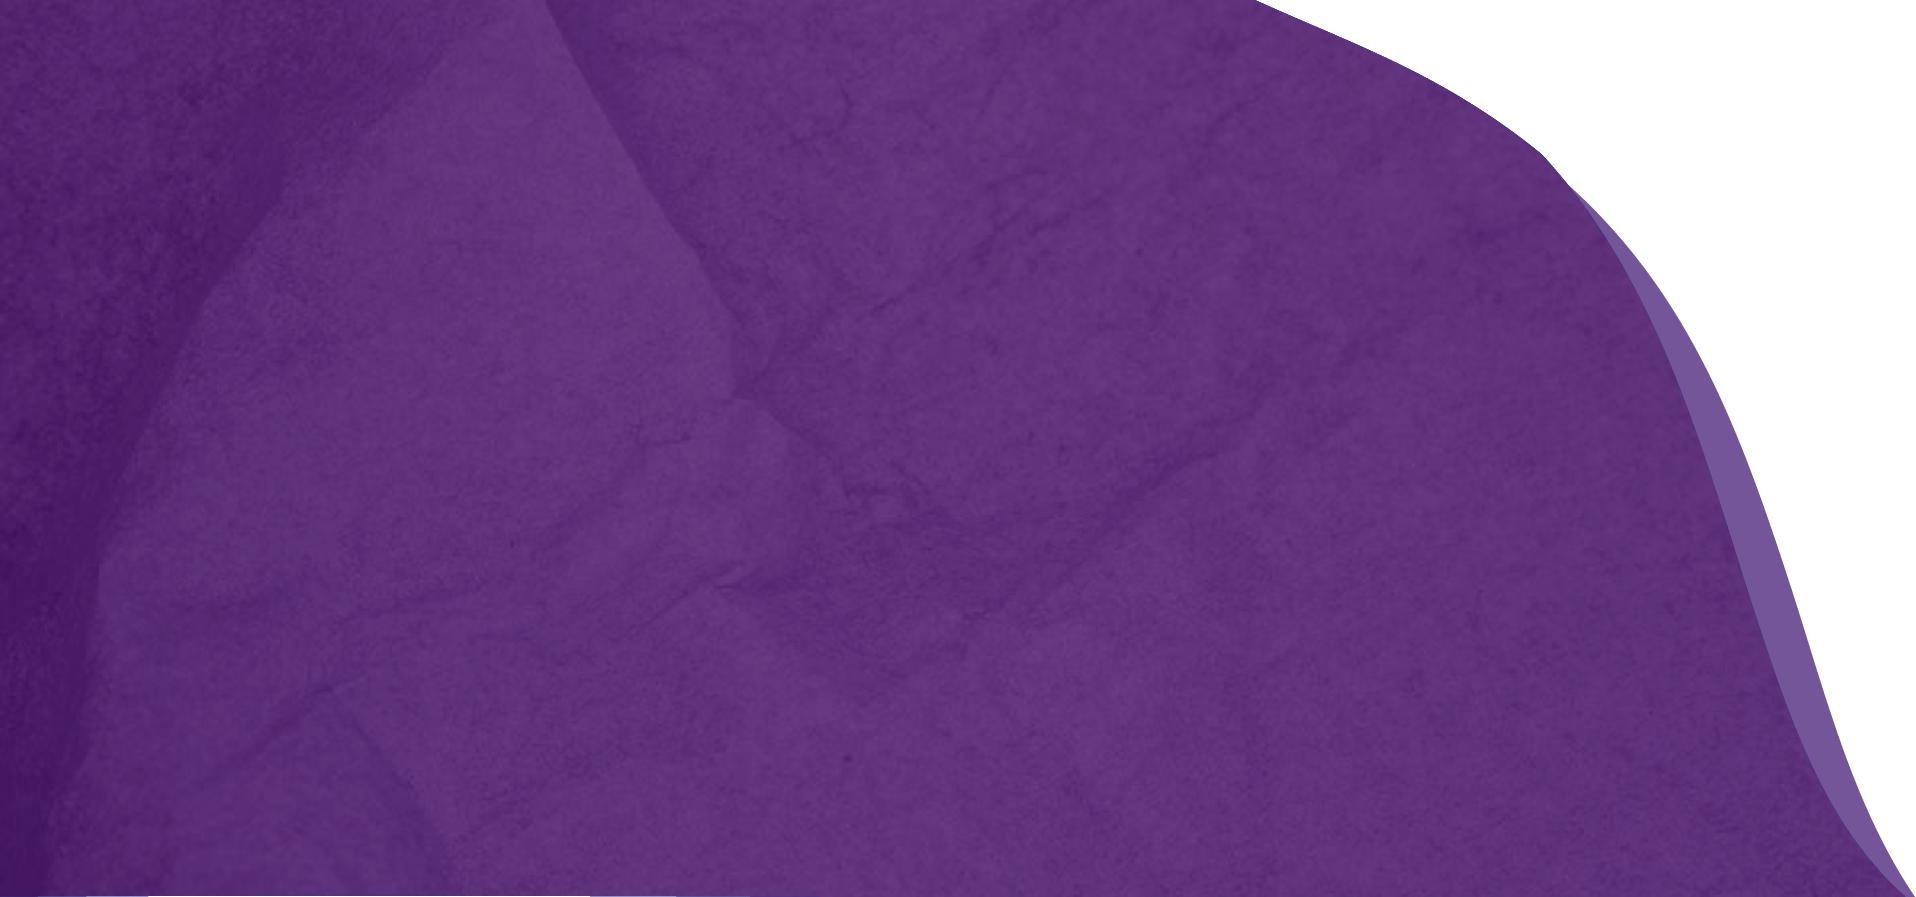
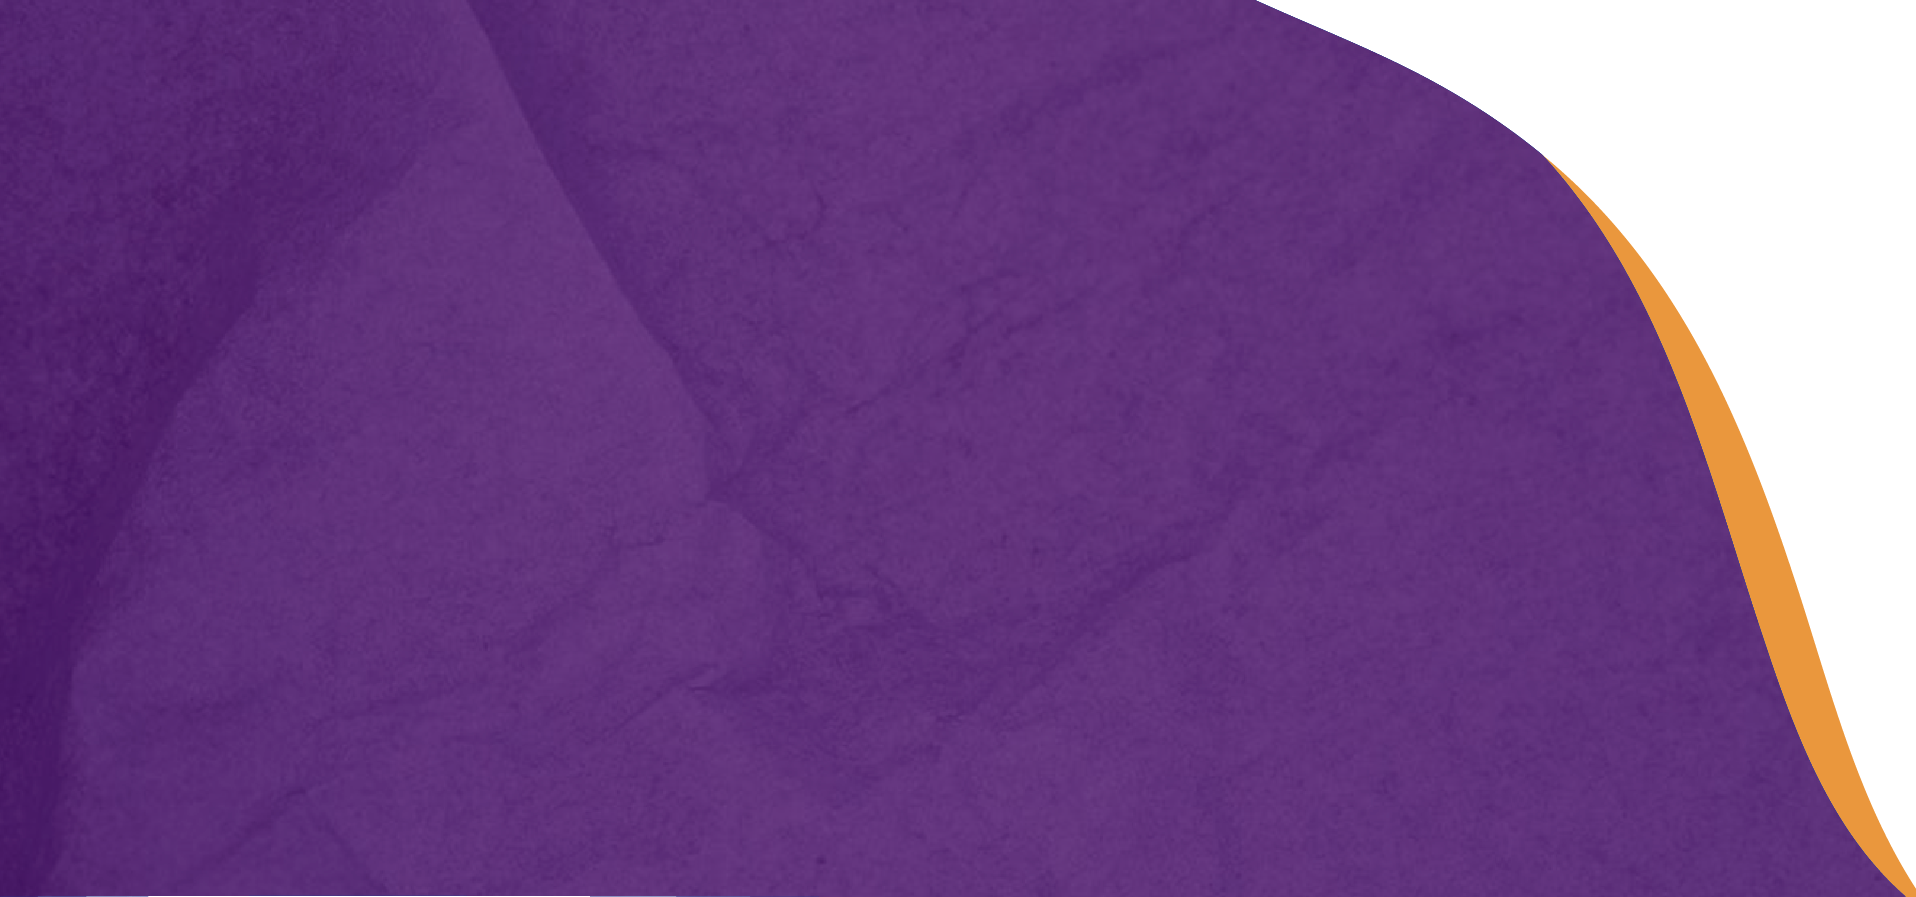
cambio color y textos

Changed region(s): [[0.8006, 0.1873, 1.0, 1.0]]

diff --git a/index.html b/index.html
@@ -66,8 +66,10 @@
                         <div class="col-md-2">   
                          </div>
                         <div class="col-md-8">
-                              <h1 class="banner_taital">Daniela Lábaque</h1>
-                              <p class="banner_text"><b>Coach Cuántica - Coach Profesional - Master Reiki Usui - Numeróloga</b>
+                              <h1 class="banner_taital">Vivir mejor</h1>
+                              <p class="banner_text"><b> ¿Te gustaría convertirte en esa persona que siempre soñaste ser, 
+                                y no sabes cómo, ni por dónde empezar? 
+                                 Escribime y lo charlamos...</b>
                               </p>
                               <div class="more_bt"><a href="#contact">Contactame</a></div>
                         </div>
@@ -95,8 +97,8 @@
          <div class="row">
             <div class="col-sm-12">
                <h1 class="protect_taital">Sobre mi</h1>
-               <p class="protect_text"> Me llaman Daniela. </p> 
-               <p class="protect_text"> A lo largo de los años fui adquiriendo conocimientos a
+               <p class="protect_text"> Soy Daniela Lábaque. Coach Cuántica, Coach Profesional, Master Reiki Usui y Numeróloga. </p> 
+               <p class="protect_text"> A lo largo de los años fui adquiriendo estos conocimientos a
                   través de cursos, experiencias personales y situaciones vividas. Hoy cuento con herramientas que me
                   son muy útiles y estoy lista para compartirlo.</p>
             </div>
@@ -220,7 +222,7 @@
                         <h2 class="design_text">Reiki</h2>
                         <p class="lorem_text" style="padding-bottom: 30px;">Te ayudo equilibrar la energía del cuerpo y
                            promover su capacidad de
-                           sanación</p>
+                           sanación </p>
                      </div>
                   </div>
                </div>

diff --git a/css/style.css b/css/style.css
@@ -380,7 +380,7 @@ menu_text {
     float: left;
     font-size: 16px;
     color: #ffffff;
-    background-color: #a258ed;
+    background-color: #EA973D;
     text-align: center;
     padding: 10px 0px;
     border-radius: 40px;
